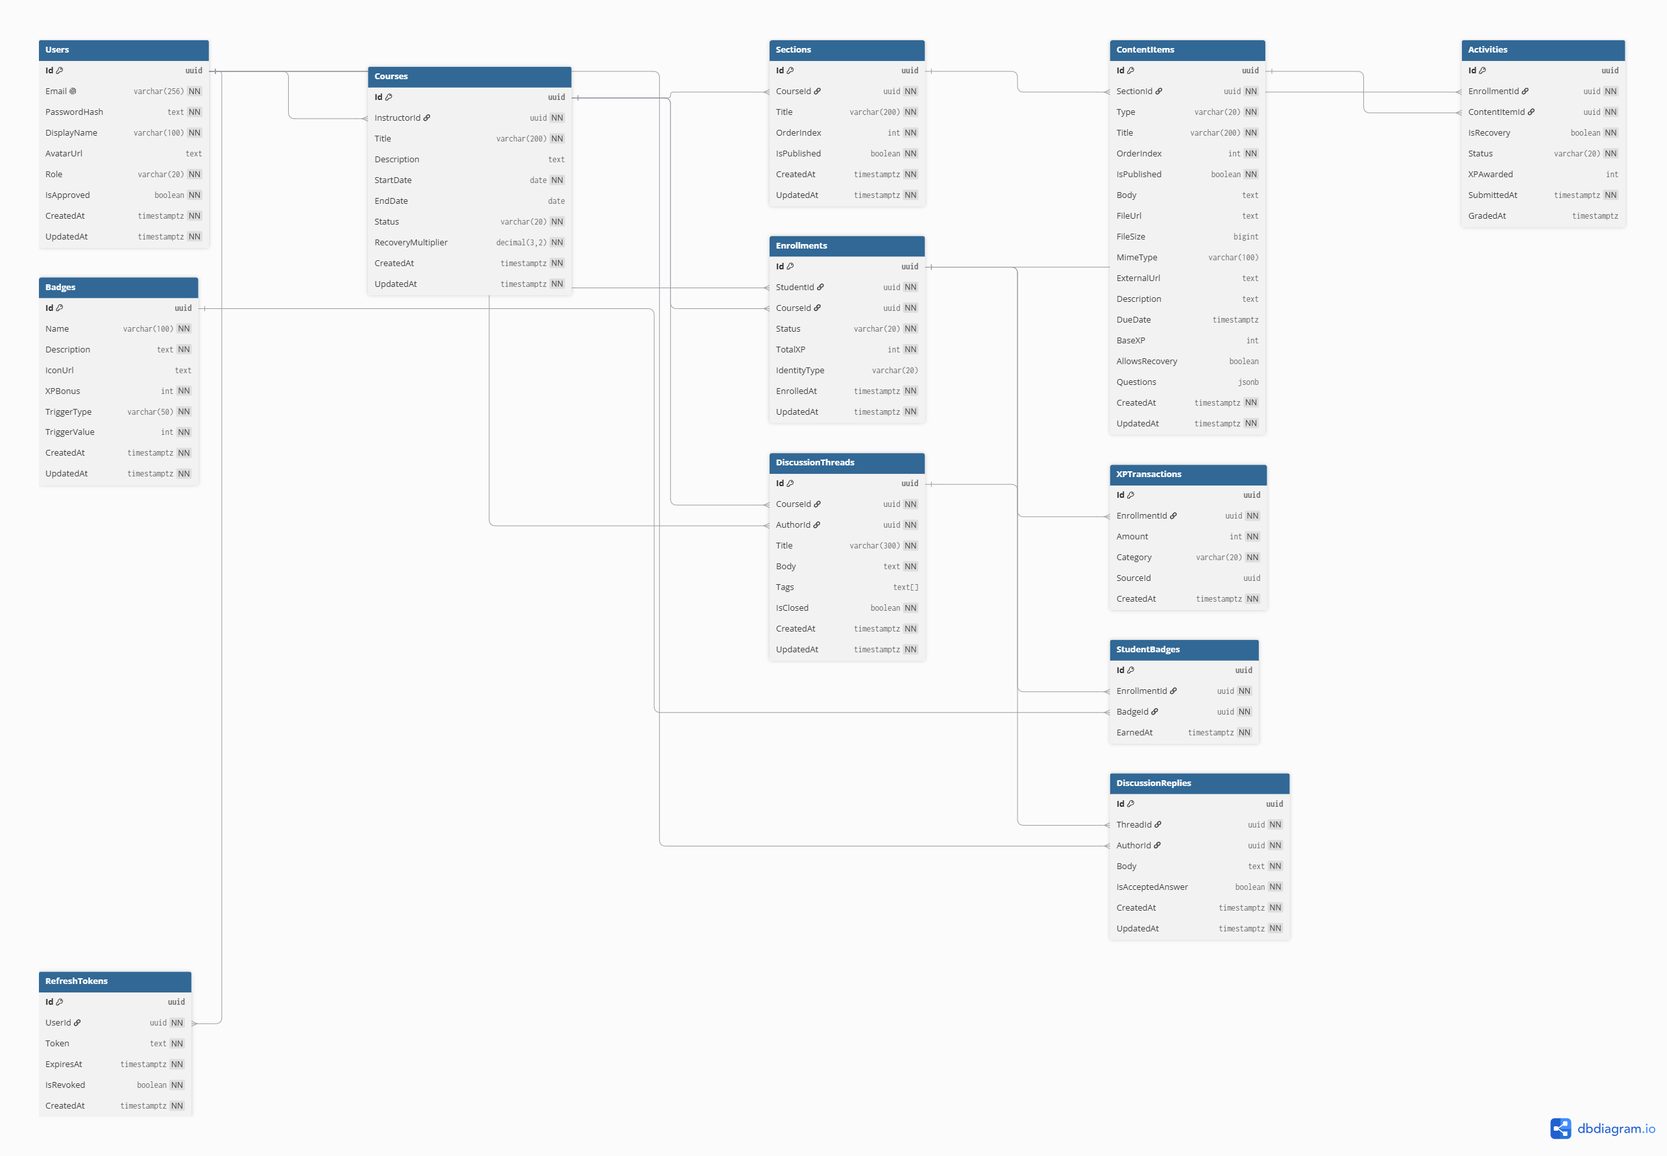
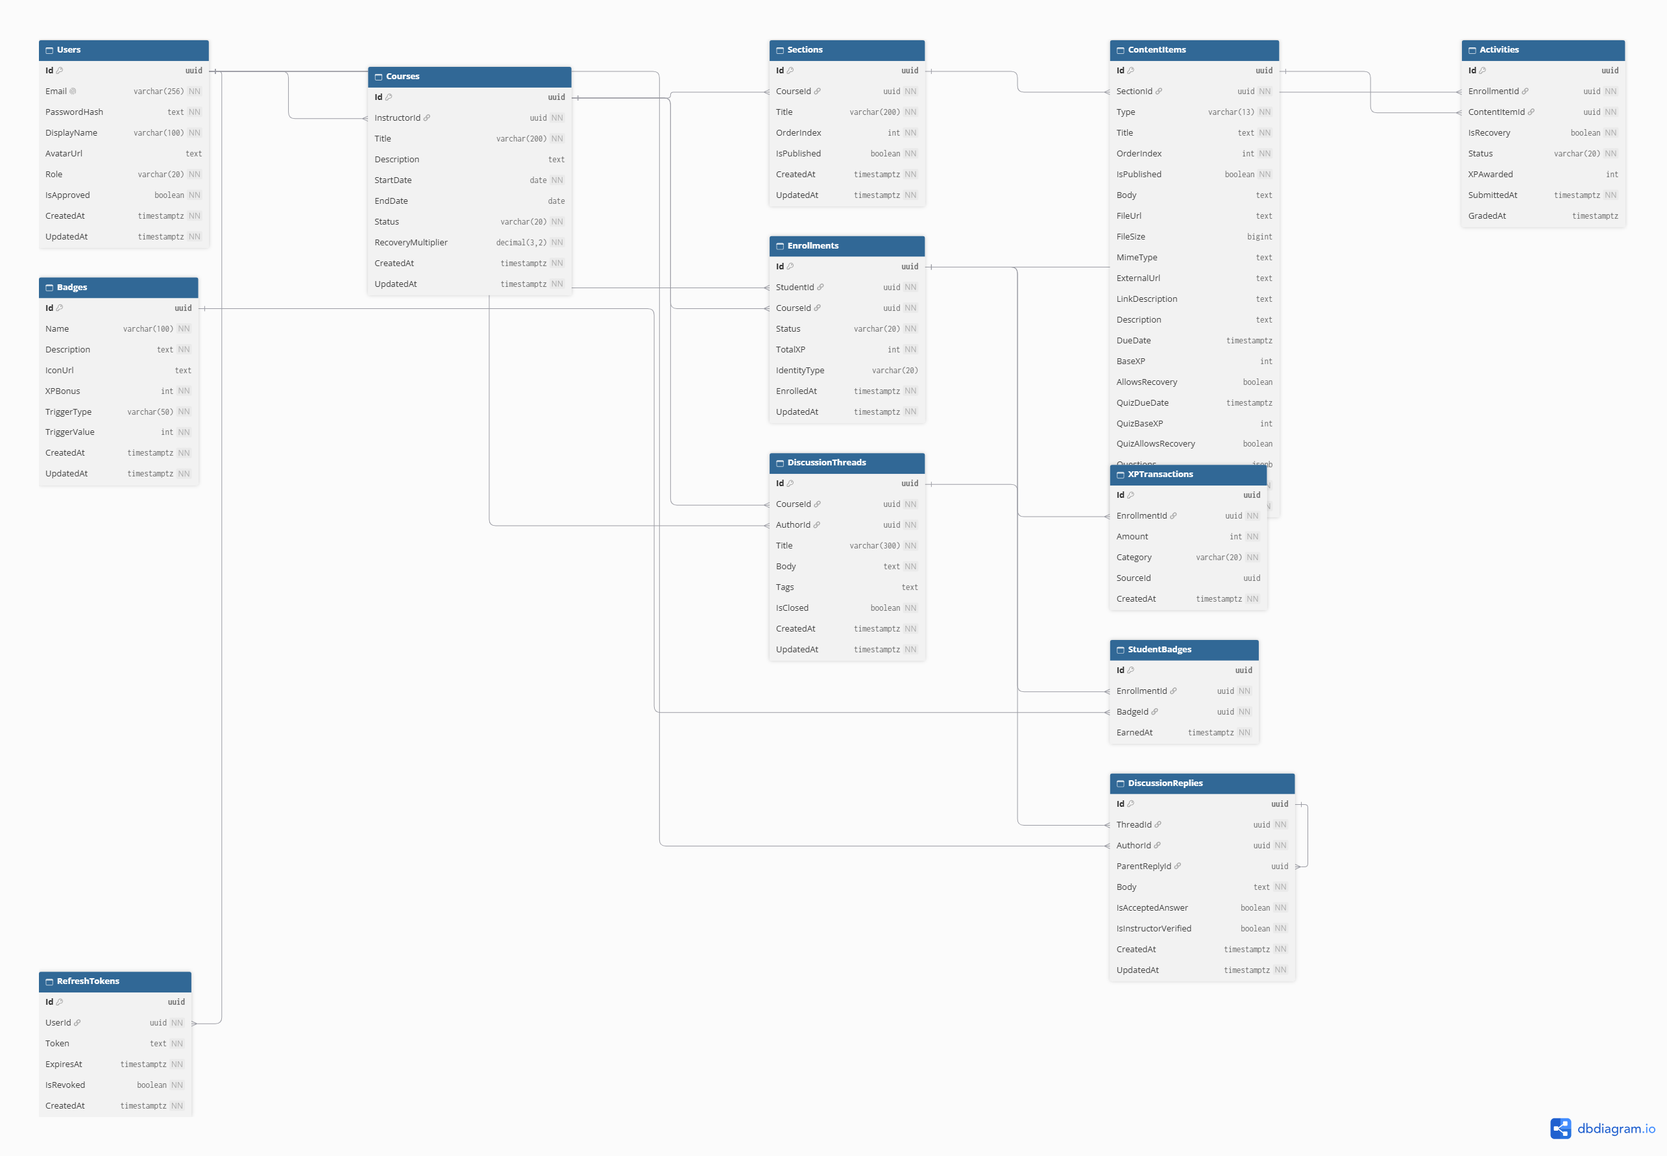
docs: update discussion decisions, requirements and ERD for Sprint 6

diff --git a/docs/requirements/user-stories.md b/docs/requirements/user-stories.md
@@ -2,64 +2,68 @@
 
 ## Authentication
 
-| ID | User Story | Acceptance Criteria |
-|---|---|---|
-| US-A1 | As a user I want to register with email and password so that I can access the platform | Registration fails if email already exists. Student accounts are active immediately. Instructor accounts are pending Admin approval. |
-| US-A2 | As a user I want to log in so that I can access my dashboard | Login returns a JWT token. Invalid credentials return a clear error. Token expires after 60 minutes. |
-| US-A3 | As an Admin I want to approve instructor accounts so that only verified instructors can create courses | Admin sees a list of pending instructor accounts. Approving activates course creation permission. Rejecting notifies the user. |
+|ID|User Story|Acceptance Criteria|
+|-|-|-|
+|US-A1|As a user I want to register with email and password so that I can access the platform|Registration fails if email already exists. Student accounts are active immediately. Instructor accounts are pending Admin approval.|
+|US-A2|As a user I want to log in so that I can access my dashboard|Login returns a JWT token. Invalid credentials return a clear error. Token expires after 60 minutes.|
+|US-A3|As an Admin I want to approve instructor accounts so that only verified instructors can create courses|Admin sees a list of pending instructor accounts. Approving activates course creation permission. Rejecting notifies the user.|
 
 ## Course Management
 
-| ID | User Story | Acceptance Criteria |
-|---|---|---|
-| US-C1 | As an instructor I want to create a course so that students can enroll and access content | Course requires title, description, and start date. Course is created in draft status. Instructor is automatically set as owner. |
-| US-C2 | As an instructor I want to organize course content into sections so that students can navigate clearly | Sections require a title. Sections have an order that the instructor can change. Content items must belong to a section. |
-| US-C3 | As an instructor I want to publish and unpublish content items so that students only see what is ready | Draft items are invisible to students. Published items are visible to enrolled students. Instructor can toggle status at any time. |
-| US-C4 | As a student I want to browse my enrolled courses so that I can access my content | Dashboard shows all active enrollments. Each course shows current XP, identity, and progress. |
+|ID|User Story|Acceptance Criteria|
+|-|-|-|
+|US-C1|As an instructor I want to create a course so that students can enroll and access content|Course requires title, description, and start date. Course is created in draft status. Instructor is automatically set as owner.|
+|US-C2|As an instructor I want to organize course content into sections so that students can navigate clearly|Sections require a title. Sections have an order that the instructor can change. Content items must belong to a section.|
+|US-C3|As an instructor I want to publish and unpublish content items so that students only see what is ready|Draft items are invisible to students. Published items are visible to enrolled students. Instructor can toggle status at any time.|
+|US-C4|As a student I want to browse my enrolled courses so that I can access my content|Dashboard shows all active enrollments. Each course shows current XP, identity, and progress.|
 
 ## Enrollment
 
-| ID | User Story | Acceptance Criteria |
-|---|---|---|
-| US-E1 | As a student I want to self-enroll in an open course so that I can start learning | Enrollment is instant for open courses. Closed and archived courses reject enrollment with a clear message. |
-| US-E2 | As an instructor I want to manually enroll a student so that I can manage course access | Instructor searches by email. Student receives access immediately. Already enrolled students are rejected with a clear message. |
-| US-E3 | As an instructor I want to remove a student from my course so that I can manage enrollment | Student loses content access immediately. XP history is retained. Action is irreversible from the student's perspective. |
+|ID|User Story|Acceptance Criteria|
+|-|-|-|
+|US-E1|As a student I want to self-enroll in an open course so that I can start learning|Enrollment is instant for open courses. Closed and archived courses reject enrollment with a clear message.|
+|US-E2|As an instructor I want to manually enroll a student so that I can manage course access|Instructor searches by email. Student receives access immediately. Already enrolled students are rejected with a clear message.|
+|US-E3|As an instructor I want to remove a student from my course so that I can manage enrollment|Student loses content access immediately. XP history is retained. Action is irreversible from the student's perspective.|
 
-## Progression & XP
+## Progression \& XP
 
-| ID | User Story | Acceptance Criteria |
-|---|---|---|
-| US-P1 | As an instructor I want to set XP values for assignments and quizzes so that I can control point distribution | Each activity has a base XP field. XP value must be a positive integer. Default value is configurable. |
-| US-P2 | As a student I want to earn XP automatically when I complete a quiz so that my effort is recognized immediately | XP is awarded on submission. XP transaction is recorded with category Assessment. Student total updates immediately. |
-| US-P3 | As a student I want to earn XP when my assignment is approved so that quality is rewarded | XP is awarded only after instructor approval. Student is notified when approved. XP transaction is recorded with category Assessment. |
-| US-P4 | As a student I want to attempt a recovery version of a missed activity so that one bad week does not define my standing | Recovery attempt is available only after original deadline. XP awarded at reduced multiplier. Recovery XP transaction is recorded with category Recovery. |
-| US-P5 | As a student I want to see my XP breakdown by category so that I understand my learning behavior | Dashboard shows total XP and XP split by category. Breakdown is visible per course. |
+|ID|User Story|Acceptance Criteria|
+|-|-|-|
+|US-P1|As an instructor I want to set XP values for assignments and quizzes so that I can control point distribution|Each activity has a base XP field. XP value must be a positive integer. Default value is configurable.|
+|US-P2|As a student I want to earn XP automatically when I complete a quiz so that my effort is recognized immediately|XP is awarded on submission. XP transaction is recorded with category Assessment. Student total updates immediately.|
+|US-P3|As a student I want to earn XP when my assignment is approved so that quality is rewarded|XP is awarded only after instructor approval. Student is notified when approved. XP transaction is recorded with category Assessment.|
+|US-P4|As a student I want to attempt a recovery version of a missed activity so that one bad week does not define my standing|Recovery attempt is available only after original deadline. XP awarded at reduced multiplier. Recovery XP transaction is recorded with category Recovery.|
+|US-P5|As a student I want to see my XP breakdown by category so that I understand my learning behavior|Dashboard shows total XP and XP split by category. Breakdown is visible per course.|
 
 ## Badges
 
-| ID | User Story | Acceptance Criteria |
-|---|---|---|
-| US-B1 | As a student I want to earn badges automatically when I reach milestones so that my achievements are recognized | Badge is awarded without manual action. XP bonus is applied immediately. Badge appears on student profile. |
-| US-B2 | As a student I want to see all my earned badges on my profile so that I can track my achievements | Profile shows badge name, description, and date earned. Unearned badges are not visible in MVP. |
+|ID|User Story|Acceptance Criteria|
+|-|-|-|
+|US-B1|As a student I want to earn badges automatically when I reach milestones so that my achievements are recognized|Badge is awarded without manual action. XP bonus is applied immediately. Badge appears on student profile.|
+|US-B2|As a student I want to see all my earned badges on my profile so that I can track my achievements|Profile shows badge name, description, and date earned. Unearned badges are not visible in MVP.|
 
 ## Behavioral Identity
 
-| ID | User Story | Acceptance Criteria |
-|---|---|---|
-| US-I1 | As a student I want to see my current identity so that I understand how the platform perceives my learning behavior | Identity label is shown on course dashboard. XP source breakdown explaining the identity is shown alongside it. Identity updates when XP is awarded. |
-| US-I2 | As an instructor I want to see the identity of each student so that I can understand class behavior patterns | Instructor dashboard shows identity alongside each student's XP total. Identity distribution across the class is visible. |
+|ID|User Story|Acceptance Criteria|
+|-|-|-|
+|US-I1|As a student I want to see my current identity so that I understand how the platform perceives my learning behavior|Identity label is shown on course dashboard. XP source breakdown explaining the identity is shown alongside it. Identity updates when XP is awarded.|
+|US-I2|As an instructor I want to see the identity of each student so that I can understand class behavior patterns|Instructor dashboard shows identity alongside each student's XP total. Identity distribution across the class is visible.|
 
 ## Discussion
 
-| ID | User Story | Acceptance Criteria |
-|---|---|---|
-| US-D1 | As a student I want to post a discussion thread so that I can ask questions or start conversations | Thread requires title and body. Thread is immediately visible to enrolled users. Author is recorded. |
-| US-D2 | As a student I want to reply to a thread so that I can contribute to discussions | Reply is attached to the correct thread. Reply author and timestamp are recorded. |
-| US-D3 | As a thread author I want to mark a reply as the accepted answer so that others know the question is resolved | Only the thread author can mark accepted answer. Only one reply can be accepted per thread. Accepted answer is visually distinguished. |
+|ID|User Story|Acceptance Criteria|
+|-|-|-|
+|US-D1|As a student I want to post a discussion thread so that I can ask questions or start conversations|Thread requires title and body. Thread is immediately visible to enrolled users. Author is recorded.|
+|US-D2|As a student I want to reply to a thread so that I can contribute to discussions|Reply is attached to the correct thread. Reply author and timestamp are recorded.|
+|US-D3|As a thread author I want to mark a reply as the accepted answer so that others know the question is resolved|Only the thread author can mark accepted answer. Only one reply can be accepted per thread. Accepted answer is visually distinguished.|
+|US-D4|As an instructor I want to verify a correct reply so that students can tell which answers are technically right|Only the course instructor can verify. A reply can be both accepted and verified. Verification can be toggled off.|
 
 ## Dashboards
 
-| ID | User Story | Acceptance Criteria |
-|---|---|---|
-| US-DS1 | As a student I want a dashboard that shows my progress so that I can understand where I stand | Shows total XP, XP by category, current identity, earned badges, and enrolled courses. Updates in real time when XP is awarded. |
-| US-DS2 | As an instructor I want a dashboard that shows class engagement so that I can evaluate students holistically | Shows all enrolled students with XP totals, category breakdowns, and identities. Highlights outliers above and below class median. |
+|ID|User Story|Acceptance Criteria|
+|-|-|-|
+|US-DS1|As a student I want a dashboard that shows my progress so that I can understand where I stand|Shows total XP, XP by category, current identity, earned badges, and enrolled courses. Updates in real time when XP is awarded.|
+|US-DS2|As an instructor I want a dashboard that shows class engagement so that I can evaluate students holistically|Shows all enrolled students with XP totals, category breakdowns, and identities. Highlights outliers above and below class median.|
+
+
+

diff --git a/docs/requirements/functional.md b/docs/requirements/functional.md
@@ -2,86 +2,91 @@
 
 ## Authentication (FR-A)
 
-| ID | Requirement |
-|---|---|
-| FR-A1 | A user can register with email and password |
-| FR-A2 | A user can log in and receive a JWT token |
-| FR-A3 | Users self-register as Student or Instructor. Instructor accounts require Admin approval before course creation is permitted. Students are active immediately on registration. |
-| FR-A4 | A user has a profile with display name and avatar |
-| FR-A5 | JWT tokens expire and must be refreshed |
+|ID|Requirement|
+|-|-|
+|FR-A1|A user can register with email and password|
+|FR-A2|A user can log in and receive a JWT token|
+|FR-A3|Users self-register as Student or Instructor. Instructor accounts require Admin approval before course creation is permitted. Students are active immediately on registration.|
+|FR-A4|A user has a profile with display name and avatar|
+|FR-A5|JWT tokens expire and must be refreshed|
 
-## Course & Content (FR-C)
+## Course \& Content (FR-C)
 
-| ID | Requirement |
-|---|---|
-| FR-C1 | An instructor can create a course with title, description, and start/end dates |
-| FR-C2 | A course contains sections, each section contains content items. Section membership is mandatory. |
-| FR-C3 | Content items can be: Lecture (rich text), File (upload), Link (external URL), Assignment, Quiz |
-| FR-C4 | An instructor can set an item as published or draft |
-| FR-C5 | Students can only see published content |
-| FR-C6 | An instructor can reorder sections and content items |
-| FR-C7 | A course has an enrollment status: open, closed, archived |
+|ID|Requirement|
+|-|-|
+|FR-C1|An instructor can create a course with title, description, and start/end dates|
+|FR-C2|A course contains sections, each section contains content items. Section membership is mandatory.|
+|FR-C3|Content items can be: Lecture (rich text), File (upload), Link (external URL), Assignment, Quiz|
+|FR-C4|An instructor can set an item as published or draft|
+|FR-C5|Students can only see published content|
+|FR-C6|An instructor can reorder sections and content items|
+|FR-C7|A course has an enrollment status: open, closed, archived|
 
 ## Enrollment (FR-E)
 
-| ID | Requirement |
-|---|---|
-| FR-E1 | An instructor can enroll students into their course manually |
-| FR-E2 | A student can self-enroll if the course is open |
-| FR-E3 | An instructor can remove a student from a course |
-| FR-E4 | A student can see all courses they are enrolled in |
-| FR-E5 | An instructor can see all students enrolled in their course |
+|ID|Requirement|
+|-|-|
+|FR-E1|An instructor can enroll students into their course manually|
+|FR-E2|A student can self-enroll if the course is open|
+|FR-E3|An instructor can remove a student from a course|
+|FR-E4|A student can see all courses they are enrolled in|
+|FR-E5|An instructor can see all students enrolled in their course|
 
-## Progression & XP (FR-P)
+## Progression \& XP (FR-P)
 
-| ID | Requirement |
-|---|---|
-| FR-P1 | Each activity (assignment, quiz) has an instructor-defined base XP value |
-| FR-P2 | Submitting a quiz awards full base XP automatically on submission |
-| FR-P3 | Submitting an assignment awards XP on instructor approval |
-| FR-P4 | A recovery version of an activity becomes available after the deadline passes |
-| FR-P5 | Recovery submission awards XP at a reduced multiplier (default 0.7x, configurable per course) |
-| FR-P6 | XP is never deducted — only added |
-| FR-P7 | A student's total XP is the sum of all earned XP across all activities in a course |
-| FR-P8 | XP is scoped per course — a student has separate XP totals per course |
-| FR-P9 | The instructor can see each student's XP total and XP breakdown by category |
+|ID|Requirement|
+|-|-|
+|FR-P1|Each activity (assignment, quiz) has an instructor-defined base XP value|
+|FR-P2|Submitting a quiz awards full base XP automatically on submission|
+|FR-P3|Submitting an assignment awards XP on instructor approval|
+|FR-P4|A recovery version of an activity becomes available after the deadline passes|
+|FR-P5|Recovery submission awards XP at a reduced multiplier (default 0.7x, configurable per course)|
+|FR-P6|XP is never deducted — only added|
+|FR-P7|A student's total XP is the sum of all earned XP across all activities in a course|
+|FR-P8|XP is scoped per course — a student has separate XP totals per course|
+|FR-P9|The instructor can see each student's XP total and XP breakdown by category|
 
 ## Badges (FR-B)
 
-| ID | Requirement |
-|---|---|
-| FR-B1 | Badges are defined at platform level with a name, description, icon, and XP bonus |
-| FR-B2 | Badges are awarded automatically when trigger conditions are met |
-| FR-B3 | A badge can only be earned once per student per course |
-| FR-B4 | Earning a badge grants a one-time XP bonus |
-| FR-B5 | A student's earned badges are visible on their profile |
-| FR-B6 | Badge triggers include: XP milestones, first submission, first discussion post, identity thresholds |
+|ID|Requirement|
+|-|-|
+|FR-B1|Badges are defined at platform level with a name, description, icon, and XP bonus|
+|FR-B2|Badges are awarded automatically when trigger conditions are met|
+|FR-B3|A badge can only be earned once per student per course|
+|FR-B4|Earning a badge grants a one-time XP bonus|
+|FR-B5|A student's earned badges are visible on their profile|
+|FR-B6|Badge triggers include: XP milestones, first submission, first discussion post, identity thresholds|
 
 ## Behavioral Identity (FR-I)
 
-| ID | Requirement |
-|---|---|
-| FR-I1 | Each student has a computed identity per course based on XP source distribution |
-| FR-I2 | Identity is recalculated every time XP is awarded |
-| FR-I3 | Identity is displayed on the student's course profile |
-| FR-I4 | The identity label and its source breakdown are visible to the student |
-| FR-I5 | The instructor can see the identity of each enrolled student |
+|ID|Requirement|
+|-|-|
+|FR-I1|Each student has a computed identity per course based on XP source distribution|
+|FR-I2|Identity is recalculated every time XP is awarded|
+|FR-I3|Identity is displayed on the student's course profile|
+|FR-I4|The identity label and its source breakdown are visible to the student|
+|FR-I5|The instructor can see the identity of each enrolled student|
 
 ## Discussion (FR-D)
 
-| ID | Requirement |
-|---|---|
-| FR-D1 | Each course has a discussion board |
-| FR-D2 | A student or instructor can create a discussion thread with a title and body |
-| FR-D3 | Any enrolled user can reply to a thread |
-| FR-D4 | The thread author can mark a reply as the accepted answer |
-| FR-D5 | Threads can be tagged by topic |
-| FR-D6 | No XP is awarded for discussion actions in MVP |
+|ID|Requirement|
+|-|-|
+|FR-D1|Each course has a discussion board|
+|FR-D2|A student or instructor can create a discussion thread with a title and body|
+|FR-D3|Any enrolled user can reply to a thread|
+|FR-D4|The thread author can mark one top-level reply as the accepted answer ("this solved my problem")|
+|FR-D5|Threads can be tagged by topic|
+|FR-D6|No XP is awarded for discussion actions in MVP|
+|FR-D7|The course instructor can mark or unmark any reply as instructor-verified ("this is technically correct"), independent of the accepted flag|
+|FR-D8|A reply can have one level of nested replies; replies to a nested reply are not allowed|
 
 ## Dashboards (FR-DS)
 
-| ID | Requirement |
-|---|---|
-| FR-DS1 | A student dashboard shows: total XP, XP by category, current identity, earned badges, enrolled courses |
-| FR-DS2 | An instructor dashboard shows: enrolled students, XP distribution across class, per-student breakdown, identity distribution |
-| FR-DS3 | The instructor can identify outliers — students significantly above or below class median |
+|ID|Requirement|
+|-|-|
+|FR-DS1|A student dashboard shows: total XP, XP by category, current identity, earned badges, enrolled courses|
+|FR-DS2|An instructor dashboard shows: enrolled students, XP distribution across class, per-student breakdown, identity distribution|
+|FR-DS3|The instructor can identify outliers — students significantly above or below class median|
+
+
+

diff --git a/docs/architecture/decisions.md b/docs/architecture/decisions.md
@@ -171,3 +171,16 @@ This document records every significant architectural decision made during the d
 **Reasoning:** For Sprint 1, refresh token queries are simple single-entity lookups. Introducing a repository abstraction adds a layer of indirection without meaningful benefit at this scale.
 
 **Tradeoff:** Inconsistent with the repository pattern planned for other entities starting Sprint 2. This is a deliberate, temporary simplification — AuthService may be refactored to use a repository once the pattern is established elsewhere, for consistency.
+
+---
+
+## AD-16: Two-Flag Discussion Answers and One-Level Nesting
+
+**Decision:** Replies carry two independent flags: `IsAcceptedAnswer` (set by the thread author, "this solved my problem") and `IsInstructorVerified` (set by the course instructor, "this is technically correct"). Replies can be nested one level deep via `ParentReplyId`.
+
+**Reasoning:**
+- A thread author can accept a wrong answer; the instructor flag gives students an authoritative signal without removing student agency
+- Clarification questions belong under the specific reply, not the whole thread
+- One level keeps the UI and queries simple
+
+**Tradeoff:** Two flags means more UI states to design. Nested replies are loaded flat by EF Core, so the controller filters top-level replies and maps children via `ChildReplies`.

diff --git a/docs/requirements/business-rules.md b/docs/requirements/business-rules.md
@@ -59,6 +59,6 @@ They sit between requirements and design — they are not features, they are law
 
 | ID | Rule |
 |---|---|
-| BR-D1 | Only the original thread author can mark a reply as accepted answer. |
+| BR-D1 | Only the original thread author can mark a reply as accepted answer. Only the course instructor can verify a reply. |
 | BR-D2 | No XP is awarded for any discussion action in MVP. |
 | BR-D3 | Only enrolled users and the course instructor can participate in a course discussion. |
